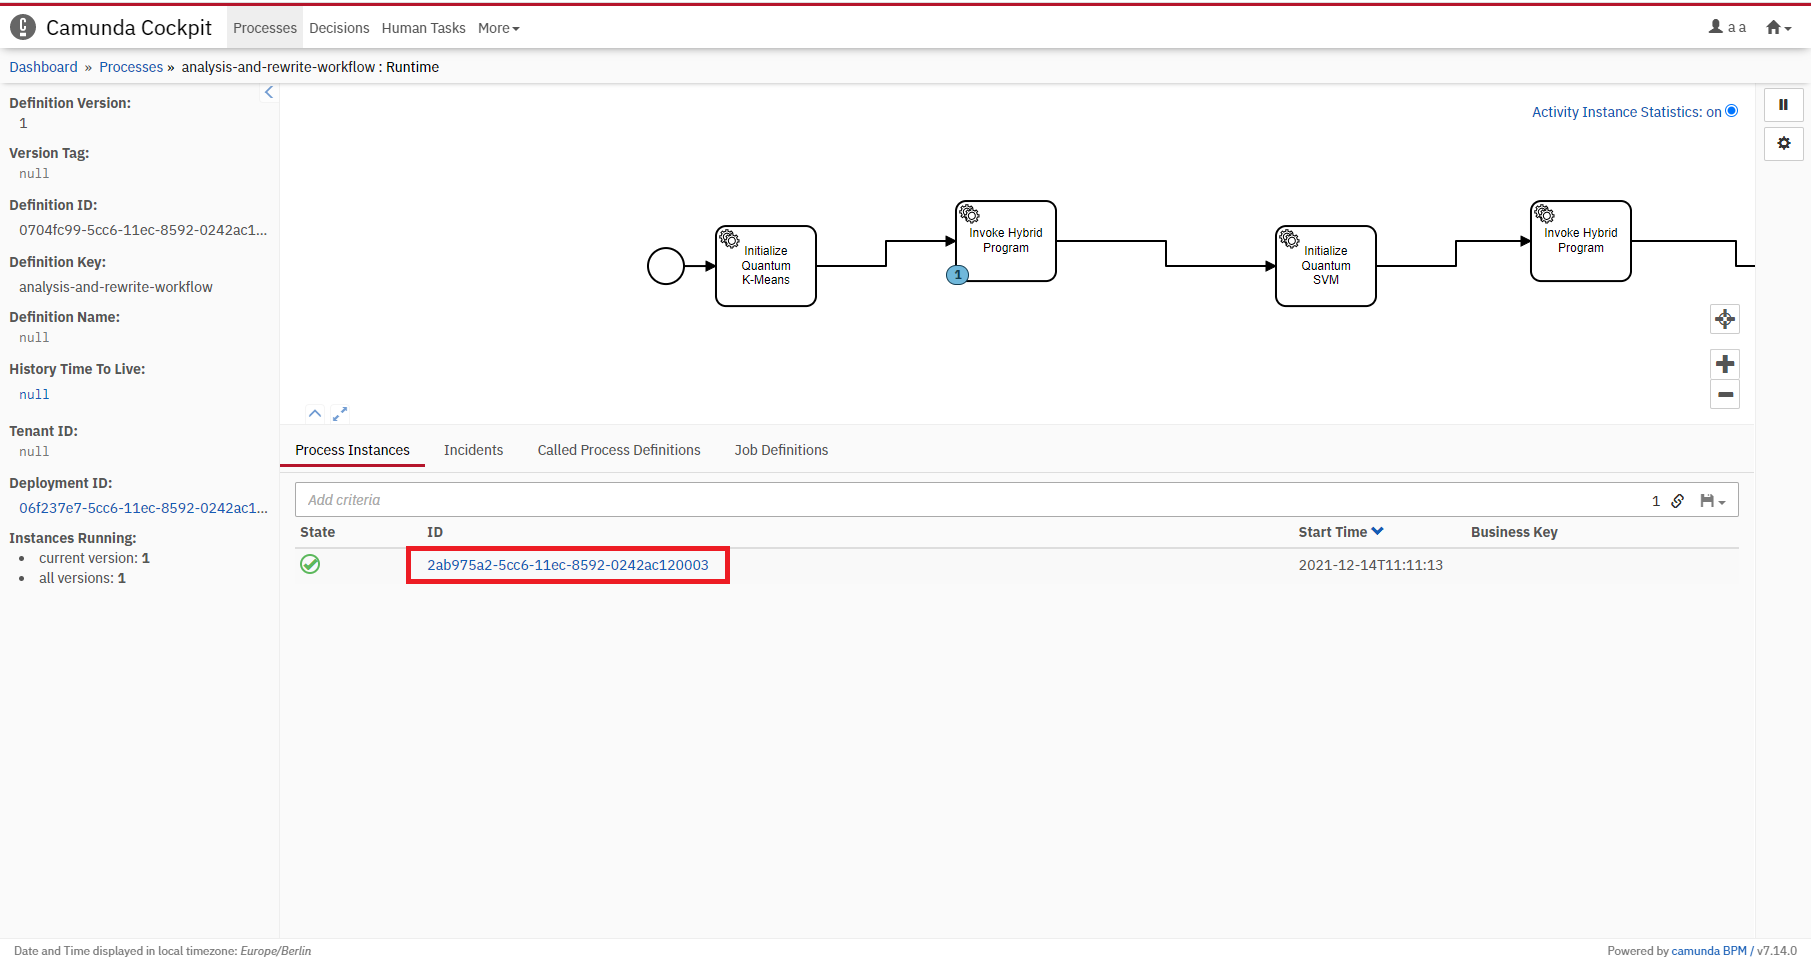
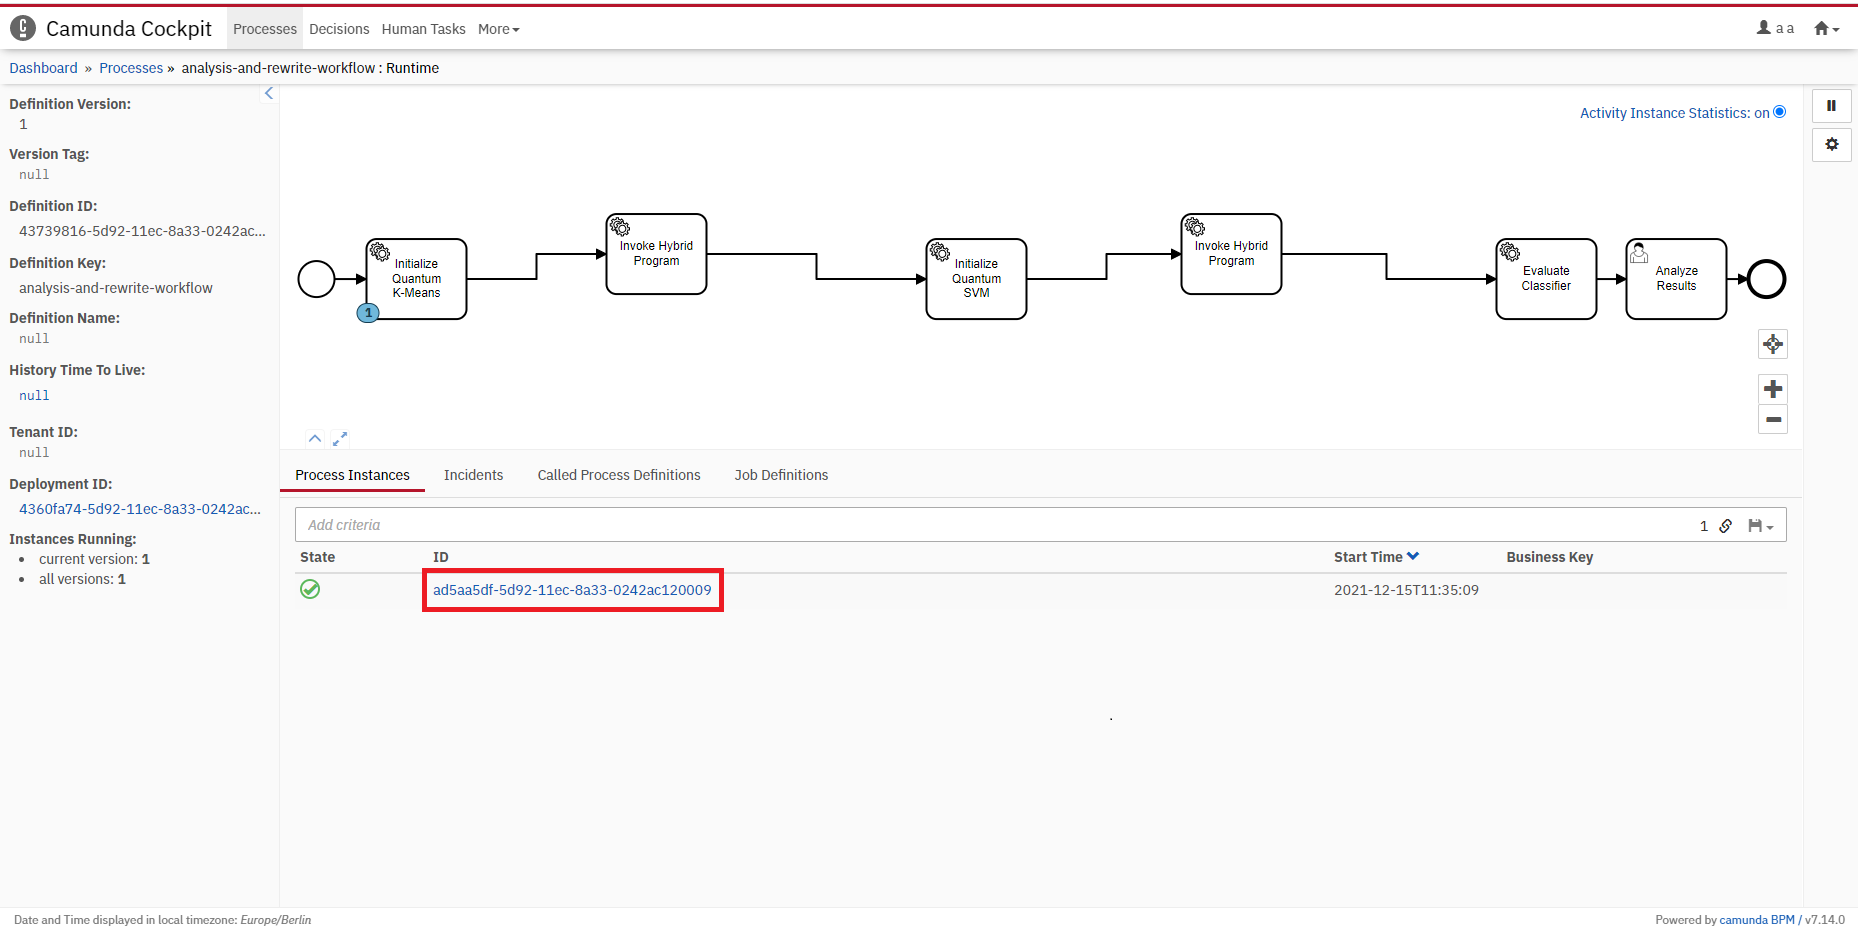
Finalize Closer readme

diff --git a/2022-closer/README.md b/2022-closer/README.md
@@ -211,9 +211,18 @@ Once the job finishes, the output parameters are also presented in the UI:
 ![Qiskit Runtime Output](./docs/qiskit-runtime-job-details-ready.png)
 
 Switch back to the Camunda cockpit and wait until the token reaches the final user task in the workflow as depicted below.
+For this, refresh the page to see the current state of the workflow instance.
 This might take some time, depending on the utilization of the selected QPU.
 
-TODO
+![User Task Reached](./docs/camunda-cockpit-human-task.png)
+
+Afterward, switch to the ``Tasklist`` tab and click on ``Add a simple filter`` on the left.
+Now, the task object for the human task should be visible in the task list.
+Click on the task object, and then on the ``Claim`` button, to get the URL for the plot of the boundary definition resulting from the evaluation of the trained classifier:
+
+![Camunda Tasklist Result](./docs/camunda-tasklist-result.png)
+
+After analysing the result, click on the ``Complete`` button to finish the human task, and as it is the last activity in the workflow to terminate the workflow instance.
 
 To terminate the environment, execute the following command in the [folder](./docker) with the Docker-Compose file: ``docker-compose down -v``
 Furthermore, you can delete the uploaded hybrid programs either using Qiskit and the ``IBMRuntimeService.delete_program()`` method (see [here](https://github.com/Qiskit-Partners/qiskit-runtime/blob/main/tutorials/02_uploading_program.ipynb)) or the [Qiskit Runtime API](https://runtime-us-east.quantum-computing.ibm.com/openapi/#/).
